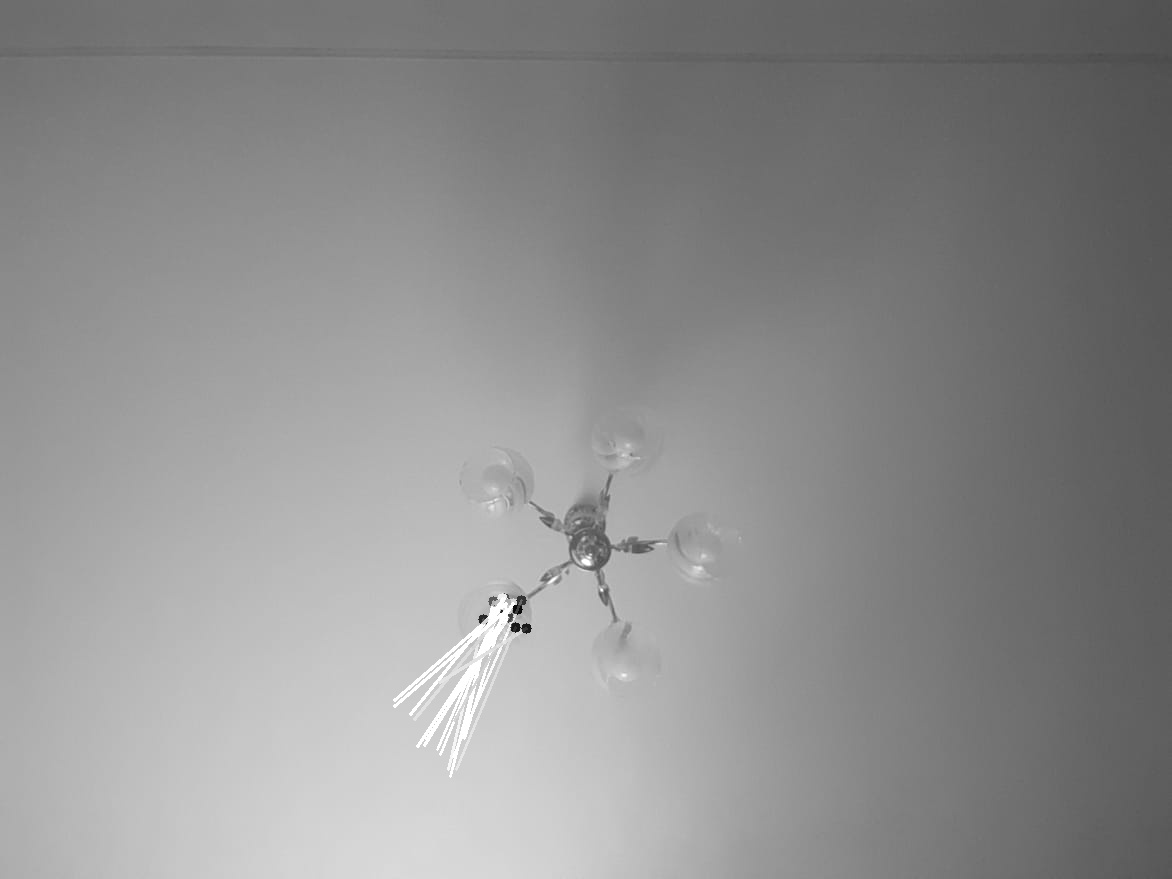
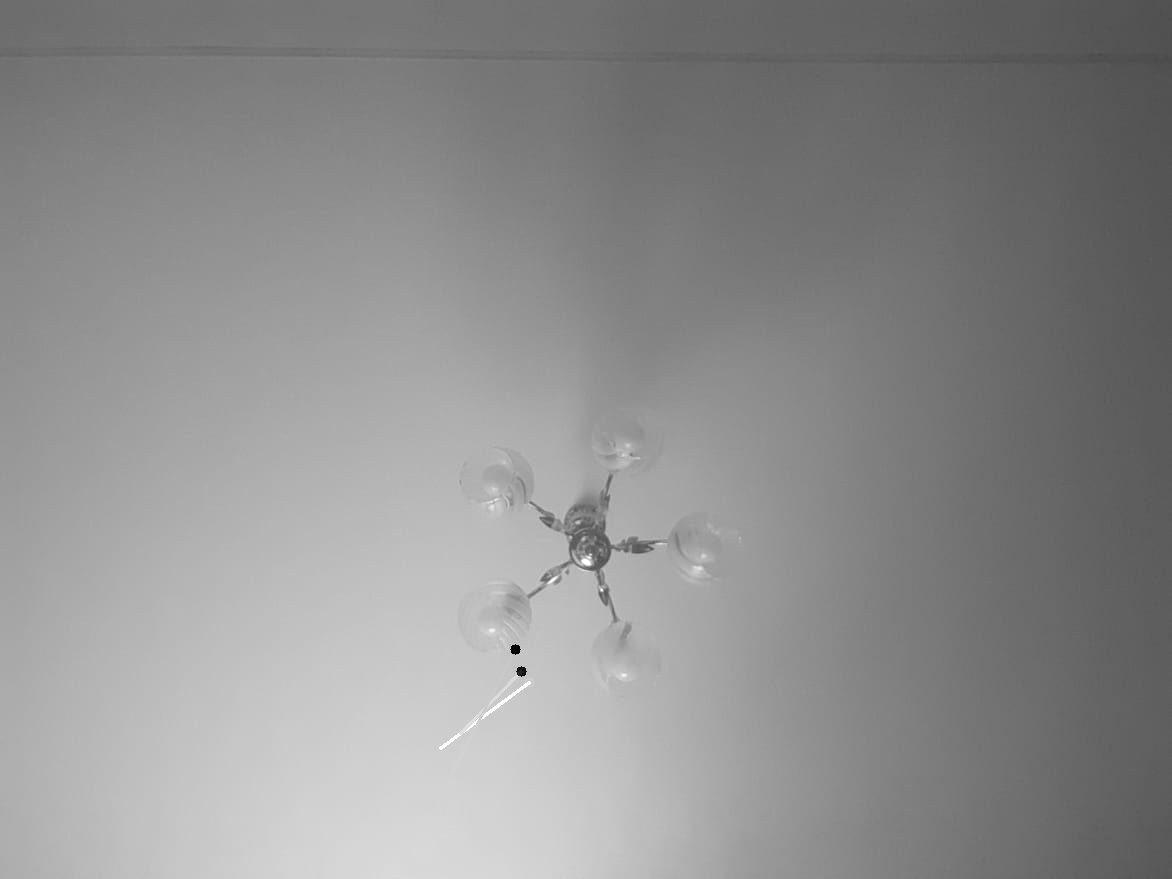
add_koeff

Changed region(s): [[0.3379, 0.6758, 0.4608, 0.8908]]

diff --git a/lk.py b/lk.py
@@ -4,14 +4,15 @@ img1 = cv2.imread('/home/pavel/mai/res/i1.jpeg',0)
 
 f = 2.4
 
-feature_params = dict( maxCorners = 100,
-                       qualityLevel = 0.4,
-                       minDistance = 5,
-                       blockSize = 15 )
 
-lk_params = dict( winSize  = (15,15),
-                  maxLevel = 4,
-                  criteria = (cv2.TERM_CRITERIA_EPS | cv2.TERM_CRITERIA_COUNT, 10, 0.03))
+feature_params = dict( maxCorners = 100,
+                       qualityLevel = 0.8,#вероятность вычисления верного перемещения пикселей, при увеличении числа до 1 точность повышаается
+                       minDistance = 5,
+                       blockSize = 6 )#максимальная точность при 6( вектора смещения равны 66.05408 -65.8587 в пикселях)
+
+lk_params = dict( winSize  = (25,25),
+                  maxLevel = 10,#при увеличении числа, повышается точость вычисления перемещения
+                  criteria = (cv2.TERM_CRITERIA_EPS | cv2.TERM_CRITERIA_COUNT, 10, 0.05))
 
 color = np.random.randint(0,255,(100,3))
 
